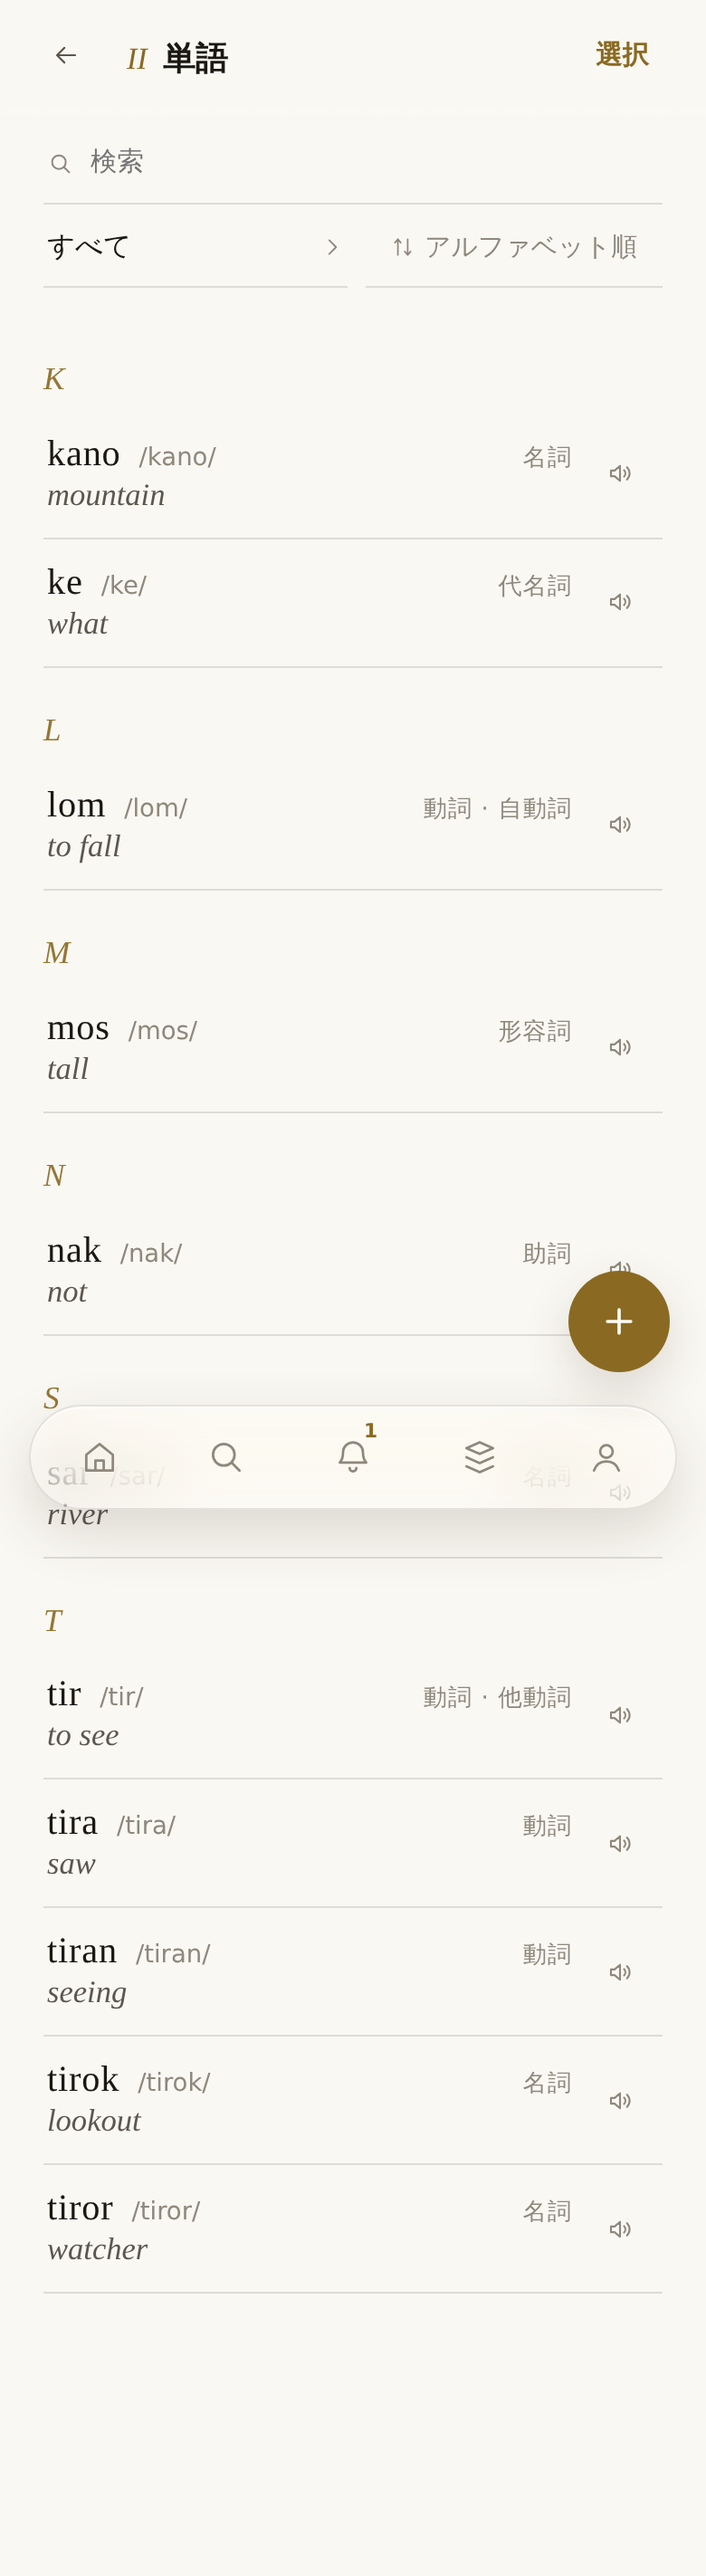
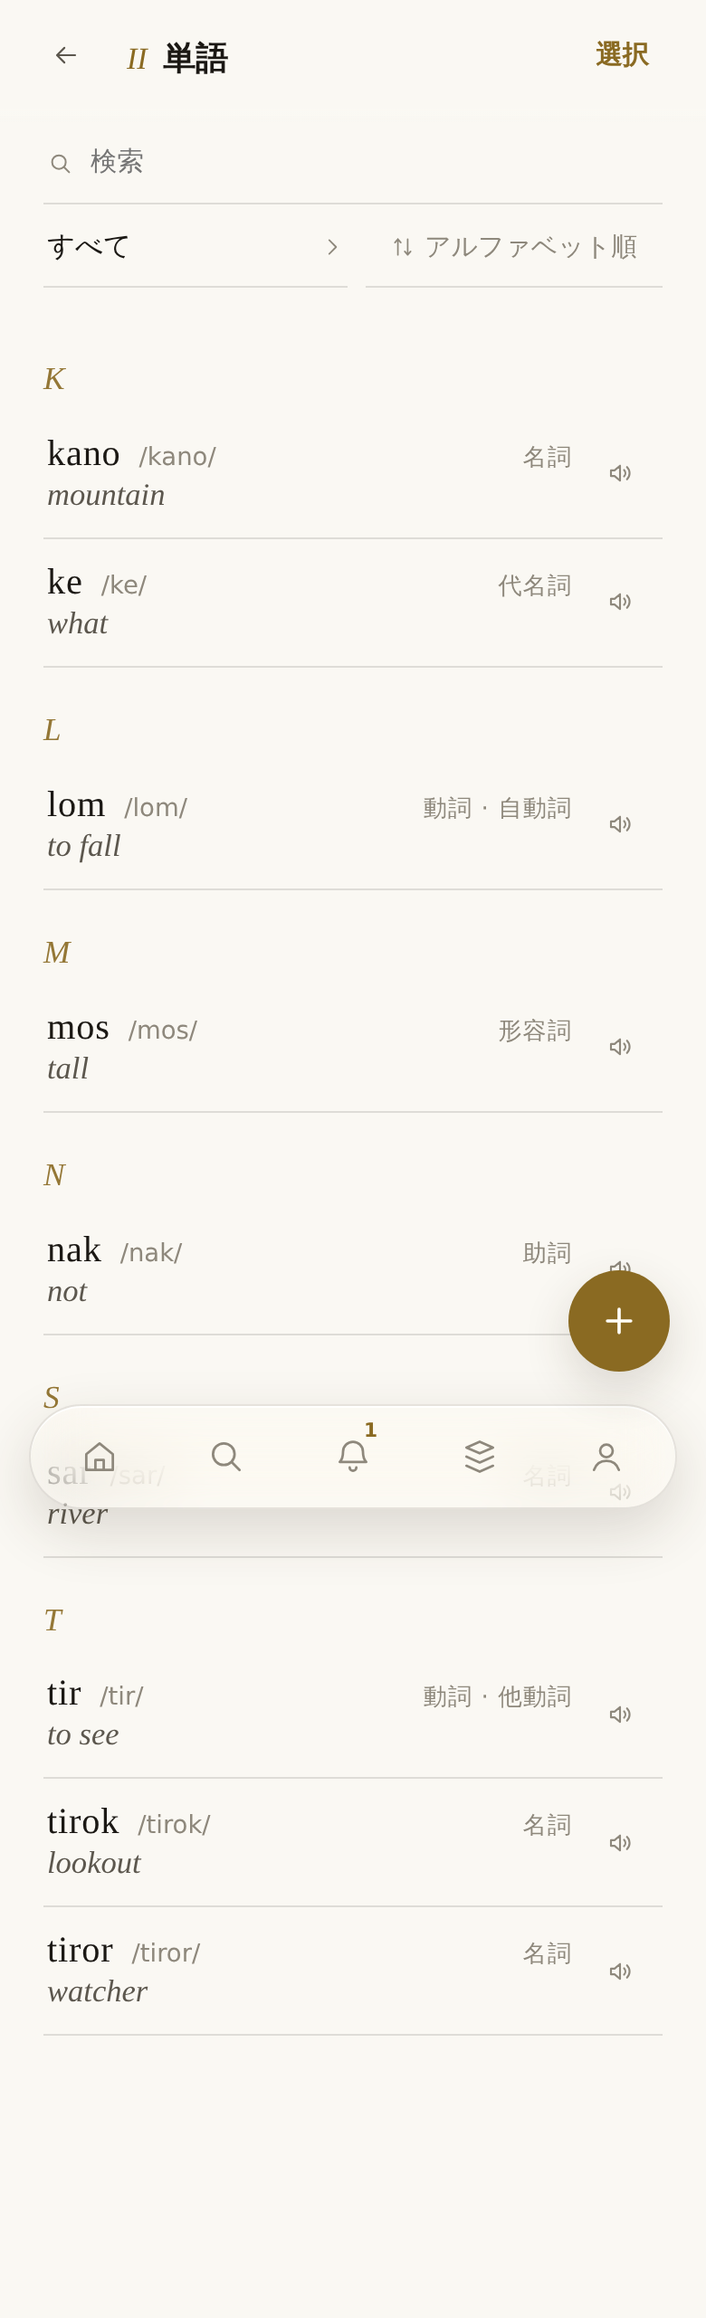
前からの活用語は辞書の一覧に出ない ── wordsSeen() が wIsForm() を読む
リーダーがオーナーの言葉「活用は活用であって単語じゃない」から B と読んだ（2026-09-23）。
一覧から外すだけで WORDS の行は一つも消さない・動かさない。元の語の「活用」欄に出る。
条件は wIsForm() 一か所 ── 上限の数え方・wForms()・変換と同じ答え。
plan-check は「数える語はすべて出る」に、forms-check に一覧と数の主張を足し、赤を見た。

Claude-Session: https://claude.ai/code/session_01QWSnTn3wJyM52ScJuy7J1X

diff --git a/www/words.js b/www/words.js
@@ -134,12 +134,24 @@ function wFilters(){
    doing so. `findWord()` in particular: a post's gloss, a spelling and an
    example are about words that exist, not about words that are listed, and
    filtering there would quietly change what somebody's own posts say. */
+/* AND AN INFLECTION IS NOT A WORD, so it is not in the list either.
+   「活用は活用であって単語じゃない」 OWNER 2026-09-23; that it leaves THIS list
+   is the leader's reading of those words (docs/FEATURE_RULES.md § Owner
+   decision log, the same day). What leaves is an inflection stored as a word
+   before that day, and it leaves the list only: it is still in `WORDS`, byte
+   for byte, and it is listed where it belongs -- under 活用 on the page of the
+   word it is a form of (wForms(), www/wordsheet.js).
+
+   wIsForm() (www/core.js) is what says which rows those are, and it is the
+   same answer the ceiling counts with (wCountable()) and the word's page and
+   the keyboard's conversion read through wForms(). So the hundred here and
+   the hundred the ceiling counts are the same hundred. */
 function wordsSeen(){
-  var cap=wordCap();
-  if(WORDS.length<=cap) return WORDS;
-  return WORDS.slice(0, cap);
+  var cap=wordCap(), out=[], i;
+  for(i=0;i<WORDS.length && out.length<cap;i++) if(!wIsForm(WORDS[i])) out.push(WORDS[i]);
+  return out;
 }
-function wordsHidden(){ return WORDS.length-wordsSeen().length; }
+function wordsHidden(){ return wCountable()-wordsSeen().length; }
 /* One place decides what is on screen, so the list, the count and the button
    that says them all can never disagree about it. */
 function wordsList(){

diff --git a/docs/FEATURE_RULES.md b/docs/FEATURE_RULES.md
@@ -261,7 +261,7 @@ the reasoning — a reason can be re-derived, a decision cannot.
 - Affected features: 語のページ、新しい語のシート、文法の章の一括ボタン、100 語、キーボードの変換、投稿の意味の行、カード
 - Affected data: 語に `fms` が増える（`docs/CHANGELOG.md` 2026-09-23）。前からの活用語は書き換えも削除もしない
 - Affected docs: `docs/CHANGELOG.md` `docs/DATA_MODEL.md`
-- Implementation status: r52-forms。「語の活用」は `wForms()` 一か所。**前からの活用語を辞書の一覧でどう見せるかは未決**（オーナー待ち）
+- Implementation status: r52-forms。「語の活用」は `wForms()` 一か所。前からの活用語は**辞書の一覧から外す**（B）── オーナーの言葉「活用は活用であって単語じゃない」からリーダーが B と読んだ（2026-09-23）。データは一つも消さない・移さない。語ページの活用一覧に出て、100語にも数えない。一覧から外す条件は `wIsForm()` 一か所（数え方・`wForms()`・変換と同じ答え）
 - Not decided: 接辞の重ね掛け（未来＋仮定＋受動）── r46 の話の残り、この枝ではしない
 
 ### 2026-09-23 文字を描く面にガイド線 ── 固定の三本、見るだけ（案 A）

diff --git a/docs/CHANGELOG.md b/docs/CHANGELOG.md
@@ -15,6 +15,17 @@ where it starts.
 
 ## Unreleased — code confirmed, **not yet confirmed on a device**
 
+### 2026-09-23 前からの活用語は辞書の一覧に出ない ── **貯まる物は変わりません**
+
+**オーナーの言葉からリーダーが読んだ（2026-09-23）**：「活用は活用であって単語じゃない」→ B。
+
+- **見て変わること**：2026-09-23 より前に語として作った活用（`from` があり、`fm` が派生で
+  ない語）は、辞書の一覧・一覧を元にする画面（関連語の選択、文法の表、音から語を探す所）に
+  出なくなる。元の語のページの「活用」欄に出る。上限の数え方と同じ `wIsForm()` の答え。
+- **貯まる物**：なし。`WORDS` の行は一つも消えず、動かず、書き換わらない。
+  `findWord()` は今まで通り全部を引く（投稿の読み・つづりは変わらない）。
+- 移行なし。削除なし。
+
 ### 2026-09-23 活用は語にしない ── 語の上に `fms` が一つ増えます。**移行は書き換えず、何も消しません**
 
 **オーナーの決定（2026-09-23）**：「活用は数えないにしよう。無料でなるべく使って欲しい。」

diff --git a/docs/DATA_MODEL.md b/docs/DATA_MODEL.md
@@ -682,8 +682,9 @@ A word with `from` and an `fm` that is not a derivation is an **inflection made
 before 2026-09-23**, when an inflection was stored as a word of its own. It is
 left exactly as it is. `wForms()` reads it as a form of its parent wherever the
 parent has no placed form of that label, and `wCountable()` in `www/core.js`
-does not count it toward the plan's ceiling. How the dictionary list shows those
-rows is the owner's and has not been decided.
+does not count it toward the plan's ceiling. It is **not in the dictionary list**
+either (`wordsSeen()` in `www/words.js` leaves out what `wIsForm()` names) —
+it is listed under 活用 on its parent's page, and stays in `WORDS` unchanged.
 
 A word is **current data**. A card of a word follows the letters being redrawn,
 and that is correct.

diff --git a/docs/scope/r52-forms.md b/docs/scope/r52-forms.md
@@ -30,5 +30,5 @@
 
 - 他の枝を merge / rebase / cherry-pick しない
 - ゲート全体は回さない。build もしない
-- 古い活用語を辞書一覧でどう見せるかは決めない（選択肢を報告して止まる）
+- 古い活用語は辞書一覧から外す（リーダーがオーナーの言葉から B と読んだ、2026-09-23）。データは消さない・移さない
 - 接辞の重ね掛け（r46 の話の残り）はこの枝ではしない
